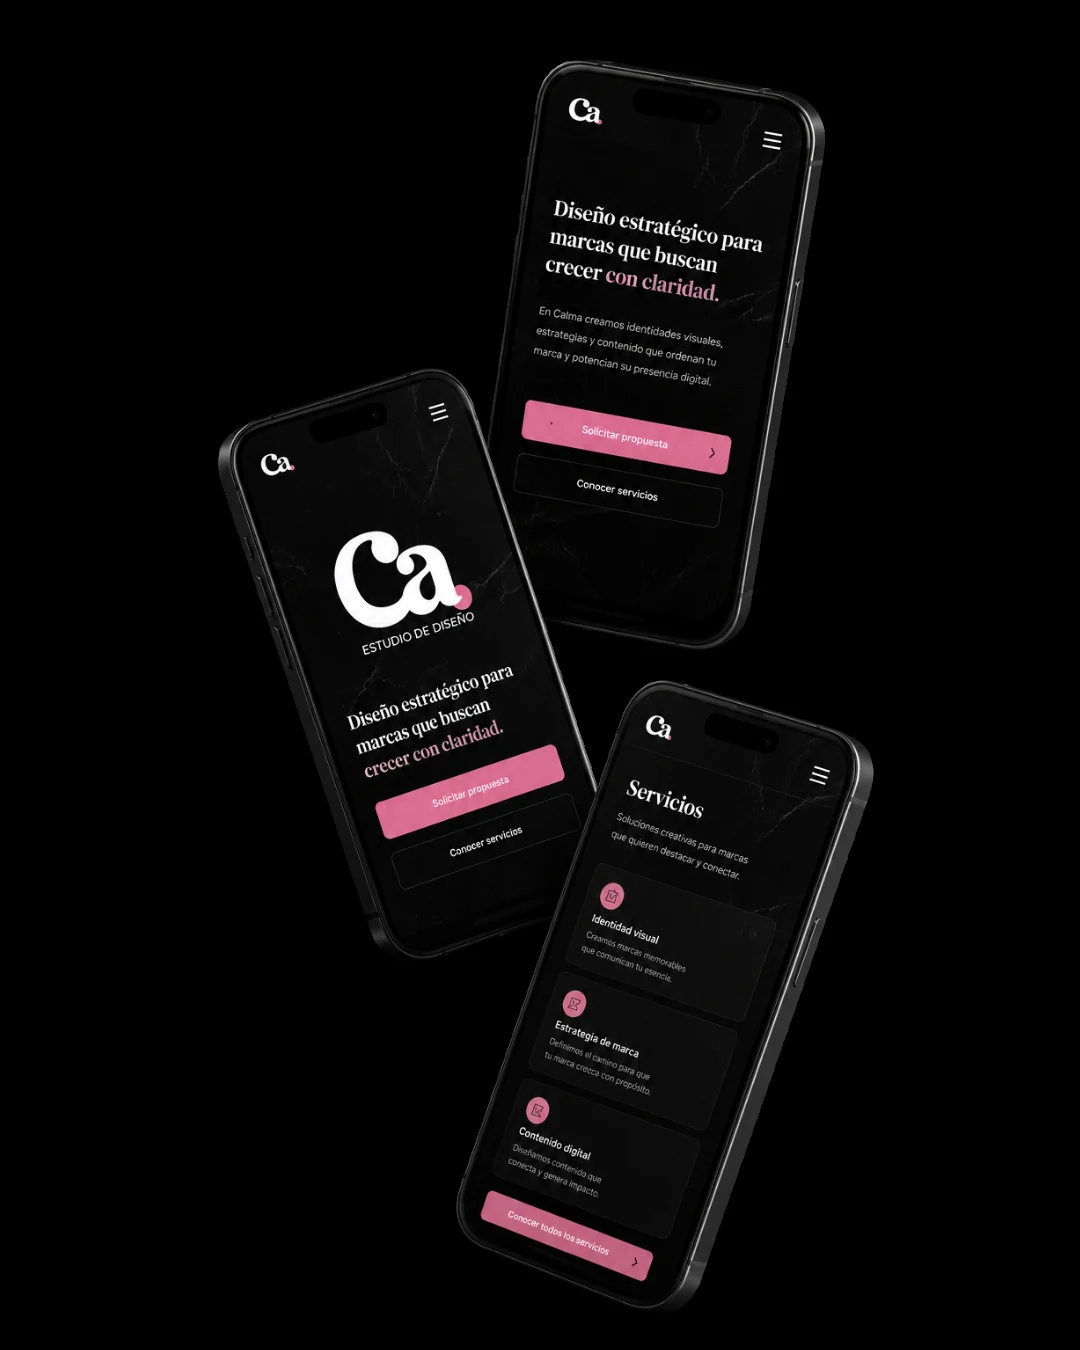
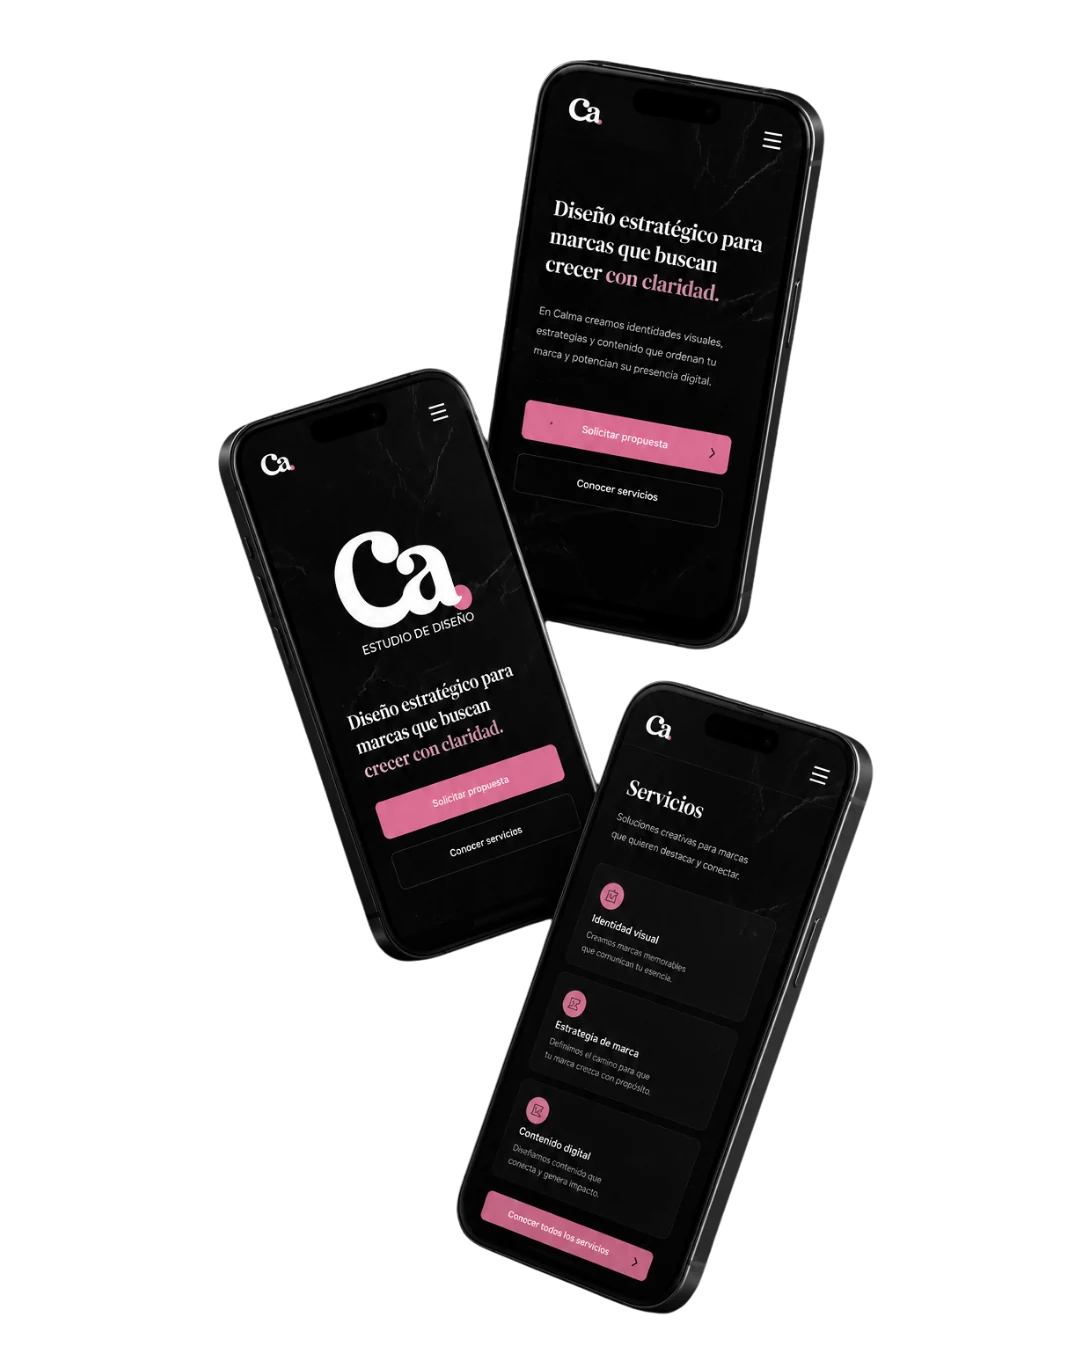
fix: hallazgos de la revisión independiente
- Anclas debajo del header fijo (scroll-padding global) y scroll suave
- Nombres de marca de la galería sin cortes
- Lightbox: foco en cerrar, Tab atrapado, foco de vuelta al cerrar
- Menú móvil: Escape, bloqueo de scroll y foco
- Mockup de celulares con transparencia; '¿Por qué elegir Calma?' sobre textura
- Mismo split (55/45) y altura máxima en secciones divididas; nav centrado
- Servicios en minúscula española, textos y accesibilidad (lang, alt)

Claude-Session: https://claude.ai/code/session_01JCqMEsJfMkJotPwqSRssji

diff --git a/app/page.tsx b/app/page.tsx
@@ -26,11 +26,11 @@ const MARQUEE = ["Branding", "Redes sociales", "Fotografía", "Diseño web", "Co
 
 const SERVICES = [
   { title: "Branding", description: "Construimos identidades visuales memorables." },
-  { title: "Gestión de Redes", description: "Creamos estrategias y contenido para conectar con clientes." },
-  { title: "Fotografía Profesional", description: "Imágenes profesionales para potenciar tu comunicación." },
-  { title: "Diseño Web", description: "Sitios modernos enfocados en experiencia y conversión." },
-  { title: "Contenido Multimedia", description: "Videos y piezas audiovisuales para campañas digitales." },
-  { title: "Papelería Corporativa", description: "Aplicaciones impresas alineadas con la identidad de marca." },
+  { title: "Gestión de redes", description: "Creamos estrategias y contenido para conectar con clientes." },
+  { title: "Fotografía profesional", description: "Imágenes profesionales para potenciar tu comunicación." },
+  { title: "Diseño web", description: "Sitios modernos enfocados en experiencia y conversión." },
+  { title: "Contenido multimedia", description: "Videos y piezas audiovisuales para campañas digitales." },
+  { title: "Papelería corporativa", description: "Aplicaciones impresas alineadas con la identidad de marca." },
 ]
 
 const CLIENT_LOGOS = [
@@ -146,6 +146,20 @@ export default function CalmaPortfolio() {
     return () => window.removeEventListener("scroll", onScroll)
   }, [])
 
+  /* Menú móvil: Escape lo cierra, bloquea el scroll de fondo y lleva el foco al primer link */
+  useEffect(() => {
+    if (!isMenuOpen) return
+    const onKey = (e: KeyboardEvent) => e.key === "Escape" && setIsMenuOpen(false)
+    const prev = document.body.style.overflow
+    document.body.style.overflow = "hidden"
+    window.addEventListener("keydown", onKey)
+    document.querySelector<HTMLAnchorElement>("#mobile-menu a")?.focus()
+    return () => {
+      document.body.style.overflow = prev
+      window.removeEventListener("keydown", onKey)
+    }
+  }, [isMenuOpen])
+
   const solidHeader = scrolled || isMenuOpen
 
   return (
@@ -157,9 +171,9 @@ export default function CalmaPortfolio() {
         }`}
       >
         <div className="mx-auto max-w-[1600px] px-4 sm:px-8 lg:px-12 py-4">
-          <div className="flex items-center justify-between">
-            <a href="#inicio" aria-label="CALMA Estudio de Diseño, ir al inicio">
-              <img src="/images/logo-calma.webp" alt="CALMA Estudio de Diseño" width={1262} height={433} className="h-10 sm:h-12 w-auto" />
+          <div className="grid grid-cols-[1fr_auto] lg:grid-cols-[1fr_auto_1fr] items-center gap-6">
+            <a href="#inicio" aria-label="Calma Estudio de Diseño, ir al inicio">
+              <img src="/images/logo-calma.webp" alt="Calma Estudio de Diseño" width={1262} height={433} className="h-10 sm:h-12 w-auto" />
             </a>
 
             <nav className="hidden lg:flex items-center gap-9" aria-label="Principal">
@@ -174,7 +188,7 @@ export default function CalmaPortfolio() {
               ))}
             </nav>
 
-            <div className="flex items-center gap-3">
+            <div className="flex items-center justify-self-end gap-3">
               <CalmaButton asChild className="hidden md:inline-flex h-10 px-5">
                 <a href="#contacto">Hablemos</a>
               </CalmaButton>
@@ -192,7 +206,7 @@ export default function CalmaPortfolio() {
           </div>
 
           {isMenuOpen && (
-            <nav id="mobile-menu" className="lg:hidden mt-4 pb-4 border-t border-white/10" aria-label="Principal">
+            <nav id="mobile-menu" className="lg:hidden mt-4 pb-4 border-t border-white/10 max-h-[calc(100dvh-5rem)] overflow-y-auto" aria-label="Principal">
               {NAV.map((item) => (
                 <a
                   key={item.href}
@@ -258,8 +272,8 @@ export default function CalmaPortfolio() {
               <div className="w-[74%] h-[2px] sm:h-[2.5px] bg-calma-pink my-3 sm:my-4 self-center ml-[2.8%]" />
               <div className="w-full flex justify-end">
                 <h1 className="font-serif text-[13.5px] sm:text-[19px] md:text-[23px] lg:text-[26.5px] font-bold tracking-[0.13em] sm:tracking-[0.14em] uppercase leading-tight select-none">
-                  <span className="sr-only">CALMA Estudio de Diseño · </span>
-                  <span className="text-calma-pink">Brand</span> <span className="text-white">Design Studio</span>
+                  <span className="sr-only">Calma Estudio de Diseño · </span>
+                  <span lang="en" className="text-calma-pink">Brand</span> <span lang="en" className="text-white">Design Studio</span>
                 </h1>
               </div>
             </div>
@@ -288,7 +302,7 @@ export default function CalmaPortfolio() {
           id="marcas"
           className="bg-dark-wall relative w-full overflow-hidden text-white flex flex-col lg:flex-row lg:min-h-[640px] lg:h-[100dvh] lg:max-h-[900px]"
         >
-          <div className="relative w-full lg:w-[54%] flex items-center justify-center lg:justify-end px-6 sm:px-10 md:px-16 lg:pl-16 lg:pr-12 xl:pr-16 py-20 sm:py-24 lg:py-0">
+          <div className="relative w-full lg:w-[55%] flex items-center justify-center lg:justify-end px-6 sm:px-10 md:px-16 lg:pl-16 lg:pr-12 xl:pr-16 py-20 sm:py-24 lg:py-0">
             <DecorLine className="top-8 sm:top-10 lg:top-[13%] right-0 w-[40%] lg:w-[45%]" />
             <DecorLine className="bottom-6 sm:bottom-8 lg:bottom-[11%] left-0 w-[30%] lg:w-[24%]" />
 
@@ -314,10 +328,10 @@ export default function CalmaPortfolio() {
             </div>
           </div>
 
-          <div className="relative w-full lg:w-[46%] h-[85vw] sm:h-[70vw] max-h-[560px] lg:max-h-none lg:h-full">
+          <div className="relative w-full lg:w-[45%] h-[85vw] sm:h-[70vw] max-h-[560px] lg:max-h-none lg:h-full">
             <img
               src="/images/branding-mockup.jpg"
-              alt="Papelería y aplicaciones de marca de CALMA Estudio de Diseño"
+              alt="Papelería y aplicaciones de marca de Calma Estudio de Diseño"
               width={1024}
               height={1536}
               loading="lazy"
@@ -330,9 +344,9 @@ export default function CalmaPortfolio() {
         {/* ─── Calma en números ────────────────────────────────────────── */}
         <section
           id="numeros"
-          className="bg-dark-wall relative w-full overflow-hidden text-white flex flex-col lg:flex-row lg:min-h-[620px] lg:h-[100dvh] lg:max-h-[860px]"
+          className="bg-dark-wall relative w-full overflow-hidden text-white flex flex-col lg:flex-row lg:min-h-[640px] lg:h-[100dvh] lg:max-h-[900px]"
         >
-          <div className="relative w-full lg:w-[56%] flex items-center px-6 sm:px-10 md:px-16 lg:pl-[7%] lg:pr-10 py-20 sm:py-24 lg:py-0">
+          <div className="relative w-full lg:w-[55%] flex items-center px-6 sm:px-10 md:px-16 lg:pl-[7%] lg:pr-10 py-20 sm:py-24 lg:py-0">
             <DecorLine className="top-8 sm:top-10 lg:top-[10%] left-0 w-[22%] lg:w-[9%]" />
             <DecorLine className="bottom-[9%] right-0 w-[14%] hidden lg:block" />
 
@@ -342,10 +356,10 @@ export default function CalmaPortfolio() {
             </div>
           </div>
 
-          <div className="relative w-full lg:w-[44%] h-[85vw] sm:h-[70vw] max-h-[560px] lg:max-h-none lg:h-full">
+          <div className="relative w-full lg:w-[45%] h-[85vw] sm:h-[70vw] max-h-[560px] lg:max-h-none lg:h-full">
             <img
               src="/images/calma-estudio.jpg"
-              alt="Oficina de CALMA Estudio de Diseño con el logo en la pared"
+              alt="Oficina de Calma Estudio de Diseño con el logo en la pared"
               width={1024}
               height={1536}
               loading="lazy"
@@ -365,7 +379,7 @@ export default function CalmaPortfolio() {
             </SectionTitle>
             <Lead className="mt-6 sm:mt-8 mx-auto max-w-2xl">
               Acompañamos a marcas, emprendedores y negocios a construir una imagen profesional, coherente y alineada a
-              sus objetivos. No diseñamos solo lo visual: trabajamos la estrategia, el mensaje y la experiencia de marca.
+              sus objetivos, cuidando cada capa: la estrategia, el mensaje y la experiencia de marca.
             </Lead>
           </div>
         </section>
@@ -373,13 +387,13 @@ export default function CalmaPortfolio() {
         {/* ─── Servicios ───────────────────────────────────────────────── */}
         <section
           id="servicios"
-          className="bg-dark-wall relative w-full overflow-hidden text-white scroll-mt-20 lg:h-[100dvh] lg:min-h-[560px] lg:max-h-[1080px] lg:flex lg:items-center"
+          className="bg-dark-wall relative w-full overflow-hidden text-white lg:h-[100dvh] lg:min-h-[640px] lg:max-h-[900px] lg:flex lg:items-center"
         >
           <div className="w-full lg:h-full flex flex-col lg:flex-row lg:items-stretch lg:justify-between">
             <div className="w-full lg:w-[68%] lg:h-full flex flex-col justify-center pt-20 sm:pt-24 lg:pt-14 pb-10 lg:pb-2 pl-6 sm:pl-10 md:pl-16 lg:pl-20 xl:pl-24 pr-6 sm:pr-10 md:pr-14 lg:pr-14">
-              <div className="flex items-center gap-3 sm:gap-5 mb-6 sm:mb-8">
+              <div className="flex items-center sm:gap-5 mb-6 sm:mb-8">
                 <span
-                  className="calma-rule w-5 sm:w-10 md:w-16 lg:w-20 -ml-6 sm:-ml-10 md:-ml-16 lg:-ml-20 xl:-ml-24 flex-shrink-0"
+                  className="calma-rule hidden sm:block sm:w-10 md:w-16 lg:w-20 sm:-ml-10 md:-ml-16 lg:-ml-20 xl:-ml-24 flex-shrink-0"
                   aria-hidden="true"
                 />
                 <SectionTitle>Nuestros servicios</SectionTitle>
@@ -461,7 +475,7 @@ export default function CalmaPortfolio() {
         {/* ─── Cómo trabajamos ─────────────────────────────────────────── */}
         <section
           id="como-trabajamos"
-          className="bg-dark-wall relative w-full overflow-hidden text-white scroll-mt-20 flex flex-col lg:flex-row lg:items-stretch lg:min-h-[620px] lg:h-[100dvh] lg:max-h-[860px]"
+          className="bg-dark-wall relative w-full overflow-hidden text-white flex flex-col lg:flex-row lg:items-stretch lg:min-h-[640px] lg:h-[100dvh] lg:max-h-[900px]"
         >
           <DecorLine className="top-8 sm:top-10 lg:top-[10%] left-1/2 -translate-x-1/2 lg:left-[41.5%] lg:translate-x-0 w-[22%] lg:w-[9%]" />
           <DecorLine className="bottom-6 sm:bottom-8 lg:bottom-[9%] right-0 w-[22%] lg:w-[9%]" />
@@ -469,14 +483,14 @@ export default function CalmaPortfolio() {
           <div className="relative z-10 w-full lg:w-[52%] lg:order-2 flex items-center px-6 sm:px-10 md:px-16 lg:pl-[2%] lg:pr-[6%] pt-20 pb-8 sm:pt-24 lg:py-0">
             <div className="w-full max-w-xl mx-auto lg:mx-0">
               <SectionTitle>¿Cómo trabajamos?</SectionTitle>
-              <PinkTimeline items={PROCESS} ordered className="mt-8 sm:mt-10 [&>li]:font-light" />
+              <PinkTimeline items={PROCESS} className="mt-8 sm:mt-10 [&>li]:font-light" />
             </div>
           </div>
 
           <div className="relative w-full lg:w-[48%] lg:order-1 flex items-center justify-center px-6 pb-16 pt-4 lg:p-0">
             <img
               src="/images/app-mockup.webp"
-              alt="App de gestión de proyectos de CALMA Estudio de Diseño en un celular"
+              alt="App de gestión de proyectos de Calma Estudio de Diseño en un celular"
               width={695}
               height={869}
               loading="lazy"
@@ -489,7 +503,7 @@ export default function CalmaPortfolio() {
         {/* ─── ¿Por qué elegir Calma? ──────────────────────────────────── */}
         <section
           id="por-que-calma"
-          className="relative w-full overflow-hidden bg-black text-white flex flex-col lg:flex-row lg:items-stretch lg:min-h-[600px] lg:h-[100dvh] lg:max-h-[860px]"
+          className="bg-dark-wall relative w-full overflow-hidden text-white flex flex-col lg:flex-row lg:items-stretch lg:min-h-[640px] lg:h-[100dvh] lg:max-h-[900px]"
         >
           <div className="relative z-10 w-full lg:w-[52%] flex items-center px-6 sm:px-10 md:px-16 lg:pl-[8%] lg:pr-6 py-20 sm:py-24 lg:py-0">
             <div className="w-full max-w-md sm:max-w-lg mx-auto lg:mx-0 lg:max-w-[440px]">
@@ -508,7 +522,7 @@ export default function CalmaPortfolio() {
 
               <div className="mt-8 sm:mt-10 rounded-xl border border-calma-pink/25 bg-calma-pink/[0.07] px-5 sm:px-6 py-6 text-center">
                 <p className="font-serif text-xl sm:text-2xl font-semibold leading-snug text-balance">
-                  ¿Listos para potenciar tu marca?
+                  ¿Querés potenciar tu marca?
                 </p>
                 <p className="mt-2 font-sans text-sm sm:text-base text-white/85 text-pretty">
                   Contanos tu proyecto y armamos una propuesta.
@@ -523,7 +537,7 @@ export default function CalmaPortfolio() {
           <div className="relative w-full lg:w-[48%] flex items-center justify-center px-6 pb-16 lg:p-0">
             <img
               src="/images/phones-mockup.webp"
-              alt="Sitio y servicios de CALMA Estudio de Diseño en pantallas de celular"
+              alt="Sitio y servicios de Calma Estudio de Diseño en pantallas de celular"
               width={1080}
               height={1350}
               loading="lazy"
@@ -534,7 +548,7 @@ export default function CalmaPortfolio() {
         </section>
 
         {/* ─── Contacto ────────────────────────────────────────────────── */}
-        <section id="contacto" className="bg-dark-wall relative w-full overflow-hidden text-white scroll-mt-16 py-24 sm:py-32">
+        <section id="contacto" className="bg-dark-wall relative w-full overflow-hidden text-white py-24 sm:py-32">
           <DecorLine className="top-10 sm:top-14 left-0 w-[22%] lg:w-[9%]" />
           <DecorLine className="bottom-10 sm:bottom-14 right-0 w-[22%] lg:w-[9%]" />
 
@@ -592,7 +606,7 @@ export default function CalmaPortfolio() {
       <footer className="bg-black text-white border-t border-white/10">
         <div className="mx-auto max-w-6xl px-6 sm:px-10 py-14 sm:py-16 grid gap-10 sm:grid-cols-2 lg:grid-cols-[1.4fr_1fr_1fr]">
           <div>
-            <img src="/images/logo-calma.webp" alt="CALMA Estudio de Diseño" width={1262} height={433} loading="lazy" className="h-12 w-auto" />
+            <img src="/images/logo-calma.webp" alt="Calma Estudio de Diseño" width={1262} height={433} loading="lazy" className="h-12 w-auto" />
             <p className="mt-5 max-w-xs font-sans text-sm leading-relaxed text-white/60">
               Estudio de diseño especializado en branding, estrategia de marca y contenido visual.
             </p>

diff --git a/components/branding-gallery.tsx b/components/branding-gallery.tsx
@@ -206,6 +206,18 @@ export function BrandingGallery() {
   const columns = useColumns()
   const galleryRef = useRef<HTMLDivElement>(null)
   const touchX = useRef<number | null>(null)
+  const dialogRef = useRef<HTMLDivElement>(null)
+  const closeRef = useRef<HTMLButtonElement>(null)
+  const openerRef = useRef<HTMLElement | null>(null)
+  const isOpen = open !== null
+
+  /* Focus: al abrir va al botón cerrar; al cerrar vuelve a la pieza que lo abrió */
+  useEffect(() => {
+    if (!isOpen) return
+    openerRef.current = document.activeElement as HTMLElement | null
+    closeRef.current?.focus()
+    return () => openerRef.current?.focus()
+  }, [isOpen])
 
   /* Reveal brand blocks as they enter the viewport */
   useEffect(() => {
@@ -242,6 +254,25 @@ export function BrandingGallery() {
       if (e.key === "Escape") setOpen(null)
       if (e.key === "ArrowRight") step(1)
       if (e.key === "ArrowLeft") step(-1)
+      /* Mantener el Tab dentro del lightbox */
+      if (e.key === "Tab" && dialogRef.current) {
+        const items = Array.from(dialogRef.current.querySelectorAll<HTMLElement>("button:not([disabled])")).filter(
+          (el) => el.offsetParent !== null,
+        )
+        if (!items.length) return
+        const first = items[0]
+        const last = items[items.length - 1]
+        if (e.shiftKey && document.activeElement === first) {
+          e.preventDefault()
+          last.focus()
+        } else if (!e.shiftKey && document.activeElement === last) {
+          e.preventDefault()
+          first.focus()
+        } else if (!dialogRef.current.contains(document.activeElement)) {
+          e.preventDefault()
+          first.focus()
+        }
+      }
     }
     const prev = document.body.style.overflow
     document.body.style.overflow = "hidden"
@@ -256,7 +287,7 @@ export function BrandingGallery() {
   const currentPiece = open && current ? current.pieces[open.piece] : null
 
   return (
-    <section id="branding" className="bg-dark-wall relative w-full overflow-hidden text-white pt-4 pb-20 sm:pb-28">
+    <section id="branding" className="bg-dark-wall relative w-full overflow-hidden text-white pt-10 sm:pt-12 pb-20 sm:pb-28">
       <LinedHeading className="mb-10 sm:mb-14">Branding</LinedHeading>
 
       {/* One big "window" (straight edges) full of windows of different sizes.
@@ -272,11 +303,11 @@ export function BrandingGallery() {
               return (
                 <article key={brand.id} className="brand-block flex flex-col shrink-0" style={{ flexGrow: blockH }}>
                   <header className="brand-meta flex-none flex items-baseline justify-between gap-4 mb-3 sm:mb-4">
-                    <div className="flex items-baseline gap-3 min-w-0">
+                    <div className="flex items-baseline gap-3 shrink-0">
                       <span className="h-px w-6 bg-calma-pink self-center shrink-0" aria-hidden="true" />
-                      <h3 className="font-serif text-lg sm:text-xl font-semibold truncate">{brand.name}</h3>
+                      <h3 className="font-serif text-lg sm:text-xl font-semibold whitespace-nowrap">{brand.name}</h3>
                     </div>
-                    <p className="font-sans text-[10px] sm:text-[11px] uppercase tracking-[0.22em] text-white/55 text-right shrink-0">
+                    <p className="min-w-0 truncate font-sans text-[10px] sm:text-[11px] uppercase tracking-[0.22em] text-white/55 text-right">
                       {brand.sector}
                     </p>
                   </header>
@@ -332,6 +363,7 @@ export function BrandingGallery() {
       {/* Lightbox */}
       {open && current && currentPiece && (
         <div
+          ref={dialogRef}
           role="dialog"
           aria-modal="true"
           aria-label={`${current.name}: ${currentPiece.alt}`}
@@ -361,6 +393,7 @@ export function BrandingGallery() {
                 {String(open.piece + 1).padStart(2, "0")} / {String(current.pieces.length).padStart(2, "0")}
               </span>
               <button
+                ref={closeRef}
                 type="button"
                 onClick={() => setOpen(null)}
                 className="h-10 w-10 flex items-center justify-center rounded-full border border-white/15 hover:border-calma-pink hover:text-calma-pink transition-colors"

diff --git a/app/globals.css b/app/globals.css
@@ -241,6 +241,17 @@
   }
 }
 
+
+/* Los anclas (#servicios, #branding…) quedan debajo del header fijo, no tapadas */
+html {
+  scroll-padding-top: 5rem;
+}
+@media (prefers-reduced-motion: no-preference) {
+  html {
+    scroll-behavior: smooth;
+  }
+}
+
 /* ─── Shared dark-wall texture ─────────────────────────────────────────────
    background-attachment: fixed anchors the tile to the viewport, so adjacent
    sections using this class share the same texture position → no visible seam.
